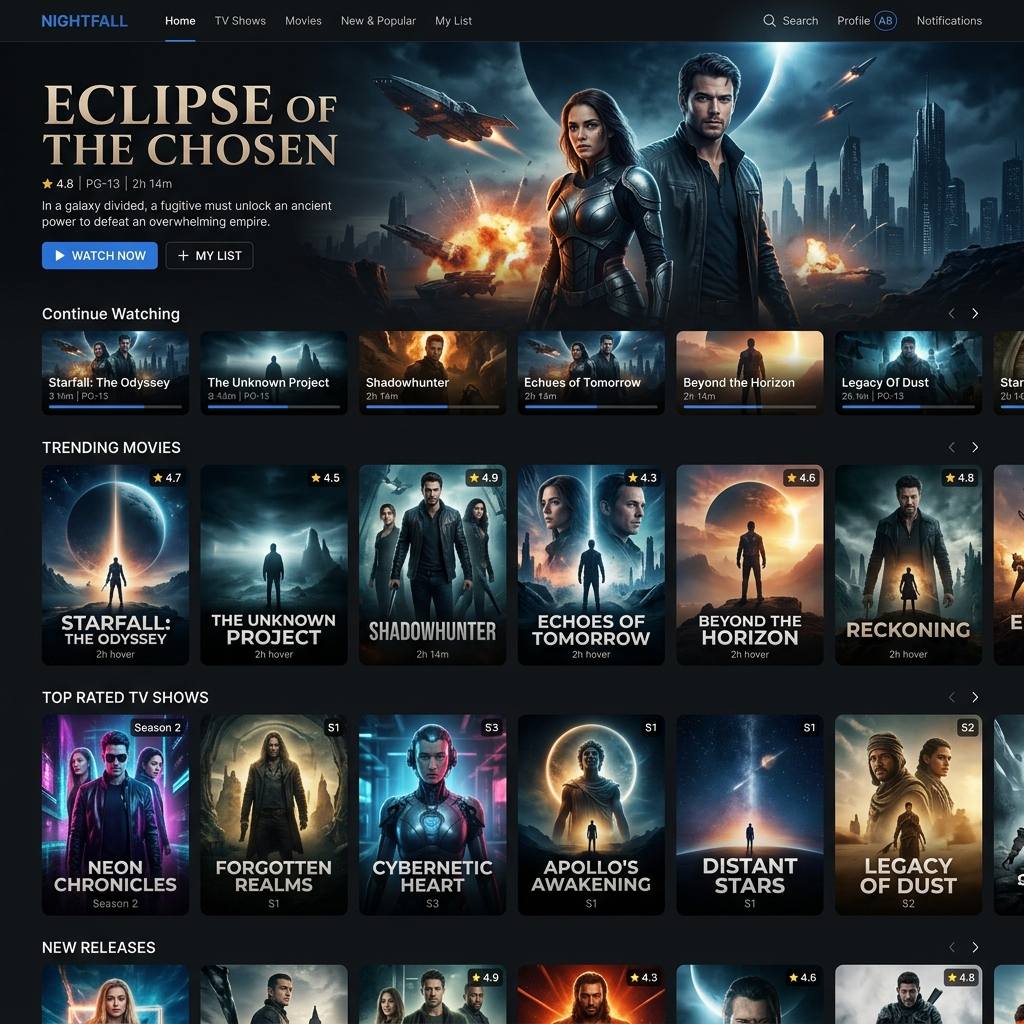
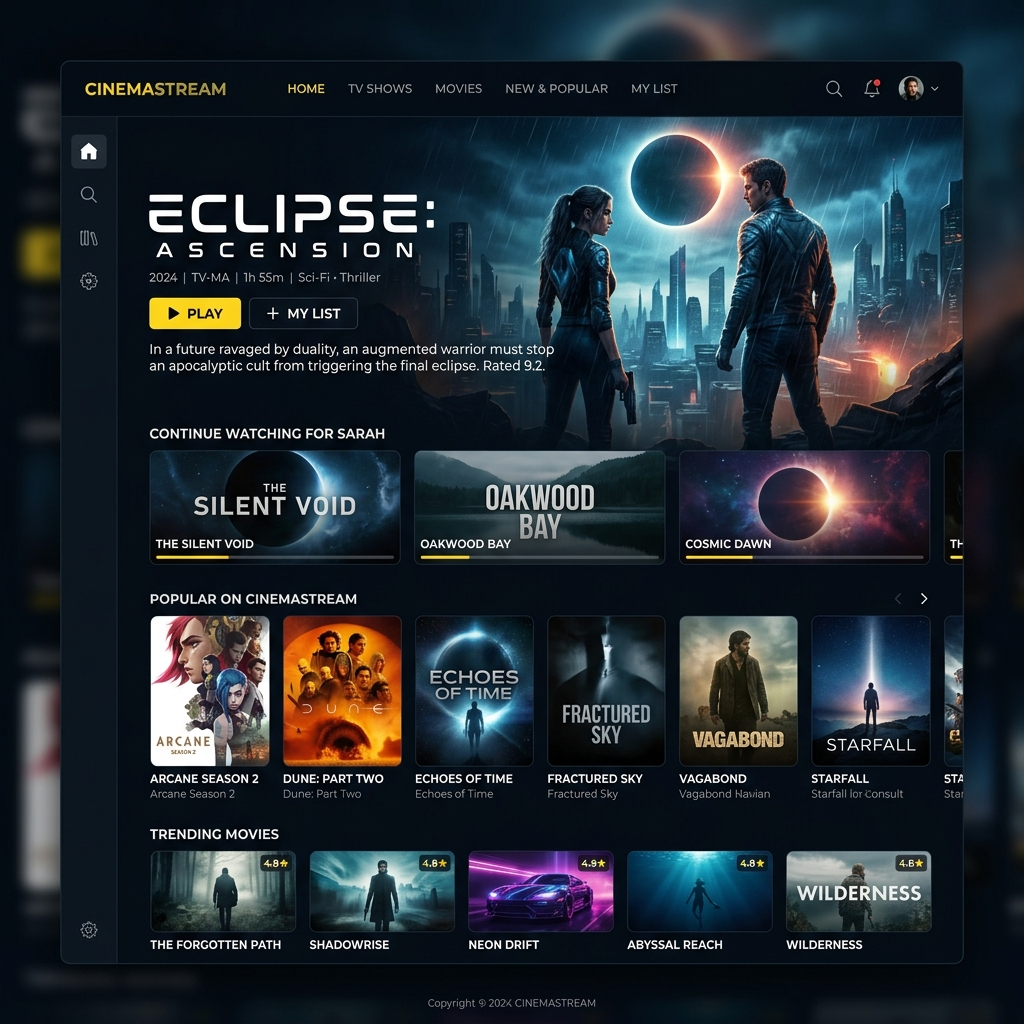
Update portfolio with Dhyan's details, resume, and loading spinner

diff --git a/src/data/portfolioData.js b/src/data/portfolioData.js
@@ -1,82 +1,88 @@
-import drivezyImg from '../assets/projects/drivezy.png';
-import luminovaImg from '../assets/projects/luminova.png';
+import workoraImg from '../assets/projects/workora.png';
+import rexpexImg from '../assets/projects/rexpex.png';
 import adminImg from '../assets/projects/admin.png';
 import olxImg from '../assets/projects/olx.png';
 import netflixImg from '../assets/projects/netflix.png';
 
 export const portfolioData = {
-  name: "Anuchandana S",
-  title: "Frontend Developer — MERN Stack Developer",
+  name: "Dhyan P",
+  title: "MERN Stack Developer",
   location: "Kochi, Kerala",
-  email: "[email redacted]",
-  phone: "[phone redacted]",
-  linkedin: "https://www.linkedin.com/in/anuchandana-sunil-57012b319/",
-  github: "https://github.com/anuchandana963",
+  email: "[email redacted]",
+  phone: "[phone redacted]",
+  linkedin: "https://www.linkedin.com/in/dhyan-p-a98492346/",
+  github: "https://github.com/dhyyan",
   
-  profileSummary: "Frontend-focused MERN stack developer with hands-on experience building scalable full-stack web applications using React.js, Node.js, and MongoDB. Skilled in RESTful API integration, authentication (JWT, Firebase), and responsive user interface development. Strong foundation in data structures and problem-solving with 100+ LeetCode problems solved.",
+  profileSummary: "Self-taught MERN Stack Developer with hands-on experience building dynamic, scalable web applications using React.js, Node.js, and MongoDB. Proficient in building RESTful APIs, integrating third party services such as Razorpay and Firebase Auth, and deploying full stack apps on Vercel and AWS. Follows Clean Architecture principles to ensure scalable, testable, and maintainable codebases. Strong problem solving skills are demonstrated by solving 100+ LeetCode problems, with a passion for writing clean, optimized, and maintainable code.",
   
   technicalSkills: {
     languages: ["JavaScript", "TypeScript", "C"],
-    frontend: ["React.js", "Redux", "Tailwind CSS", "Bootstrap", "Vanilla CSS"],
-    backend: ["Node.js", "Express.js", "RESTful APIs"],
-    databases: ["MongoDB", "Firebase"],
+    frontend: ["HTML", "CSS", "React.js", "Redux", "Tailwind CSS", "Bootstrap"],
+    backend: ["Node.js", "Express.js", "REST APIs", "JWT", "OAuth 2.0", "Razorpay integration"],
+    databases: ["MongoDB", "PostgreSQL", "Firebase", "Firestore"],
     tools: ["Git", "GitHub", "Postman", "Figma", "npm"],
-    concepts: ["Authentication", "Authorization", "JWT", "MVC", "Clean Architecture", "OOP"],
+    concepts: ["MVC", "Repository Architecture", "Clean Architecture", "OOP", "Authentication", "Authorization", "CRUD", "Responsive Design"],
   },
   
   projects: [
     {
-      title: "Drivezy - Vehicle Rental Platform",
-      github: "https://github.com/anuchandana963/DRIVEZY",
-      image: drivezyImg,
-      description: "Built a full-stack vehicle rental platform with JWT-based authentication and role-based access control. Implemented MongoDB geospatial indexing for location-based search and distance filtering.",
+      title: "Workora – Freelance Marketplace Platform",
+      github: "https://github.com/dhyyan/WORKORA",
+      image: workoraImg,
+      description: "A full stack freelance marketplace platform where clients can post projects and hire freelancers based on skills, budget, and ratings. Freelancers can apply for jobs, manage bids, track progress, and receive payments securely through an integrated wallet system.",
       bulletPoints: [
-        "Built a full-stack vehicle rental platform with JWT-based authentication and role-based access control.",
-        "Implemented MongoDB geospatial indexing for location-based search and distance filtering.",
-        "Developed an admin dashboard for managing users and approvals.",
-        "Designed real-time chat and notification features for user interaction."
+        "Role-Based Authentication: Secure login and access control for Admin, Client, and Freelancer roles with JWT and OTP verification.",
+        "Job Posting & Bidding System: Clients can post jobs with deadlines and budgets; freelancers can submit proposals and track their status.",
+        "Wallet-Based Payment Flow: Clients and freelancers have individual wallets. Clients can add funds, and upon project completion, release payments directly to freelancers.",
+        "Real-Time Chat Notifications: Instant communication and updates between clients and freelancers using WebSocket-based chat.",
+        "Admin Dashboard: Manage users, subscriptions, payments, and monitor project activities with analytics and reports."
       ]
     },
     {
-      title: "Luminova - Watch E-commerce Platform",
-      github: "https://github.com/anuchandana963/Luminovaa",
-      image: luminovaImg,
-      description: "Developed a full-stack e-commerce application with advanced filtering by category, price, and brand. Improved performance using pagination and optimized database queries.",
+      title: "RexPex – Smart Eyewear E-commerce Platform",
+      github: "https://github.com/dhyyan/Rex-Pex",
+      image: rexpexImg,
+      description: "A full stack web application that helps users find and purchase eyeglasses based on style, budget, and needs. Features an advanced filtering system and a unique \"Smart Repair System\" that notifies the nearest service partner for free repairs.",
       bulletPoints: [
-        "Developed a full-stack e-commerce application with advanced filtering by category, price, and brand.",
-        "Improved performance using pagination and optimized database queries.",
-        "Implemented dynamic product recommendation features."
+        "Advanced Filtering System: Multi criteria search by category, brand, price, and stock status using optimized backend queries.",
+        "Smart Offers Engine: Personalized product suggestions based on user behavior and filters like category, brand, price, and stock status.",
+        "Performance Optimization: Integrated pagination, indexed MongoDB queries, and fast search for a smooth user experience."
       ]
     },
     {
-      title: "User Management System & Admin Dashboard",
-      github: "https://github.com/anuchandana963/USER-MANAGEMENT-Redux",
+      title: "User Management System & Admin Dashboard App",
+      github: "https://github.com/dhyyan/USER-MANAGEMENT-Redux",
       image: adminImg,
-      description: "Built a React and TypeScript admin dashboard with Redux for state management. Implemented CRUD operations using modular and reusable components.",
+      description: "A modern admin dashboard for managing users, built with React and TypeScript. Features include user listing, editing, deletion, and profile control, all within an interactive UI.",
       bulletPoints: [
-        "Built a React and TypeScript admin dashboard with Redux for state management.",
-        "Implemented CRUD operations using modular and reusable components.",
-        "Designed a responsive UI using Tailwind CSS."
+        "Developed the frontend using React with TypeScript for strong type safety and maintainability.",
+        "Followed Clean Architecture principles to organize code into clear, scalable layers.",
+        "Used Redux for global state management and asynchronous operations.",
+        "Designed a responsive UI using Tailwind CSS with smooth animations powered by Framer Motion."
       ]
     },
     {
-      title: "OLX-like Buy & Sell Platform",
-      github: "#",
+      title: "OLX Clone — Buy & Sell Web App",
+      github: "https://github.com/dhyyan/OLX-Clone-React",
       image: olxImg,
-      description: "Developed a product listing platform using React and Firebase. Integrated Firebase Authentication and image upload functionality.",
+      description: "A responsive OLX like platform built with React and Firebase, allowing users to post, browse, and manage product listings.",
       bulletPoints: [
-        "Developed a product listing platform using React and Firebase.",
-        "Integrated Firebase Authentication and image upload functionality.",
-        "Implemented search, filtering, and lazy loading for performance."
+        "Integrated Firebase Auth with Google login and managed sessions via the React Context API.",
+        "Enabled image uploads and storage using Firebase Storage.",
+        "Designed UI with Tailwind CSS and handled navigation using React Router.",
+        "Implemented search, filtering, and lazy loading for performance optimization."
       ]
     },
     {
-      title: "Netflix Clone - Streaming Web App",
-      github: "https://github.com/anuchandana963/Netflix-Clone-React",
+      title: "Netflix Clone Streaming Web App",
+      github: "https://github.com/dhyyan/Netflix-Clone-React",
       image: netflixImg,
-      description: "Built a responsive streaming platform using React and Firebase with authentication and protected routes.",
+      description: "A responsive Netflix-like platform built with React and Firebase, offering user authentication, dynamic content browsing, and optimized component rendering.",
       bulletPoints: [
-        "Built a responsive streaming platform using React and Firebase with authentication and protected routes."
+        "Integrated Firebase Authentication with secure session management.",
+        "Managed global state using React Context API for cleaner data flow.",
+        "Improved performance using React.memo and component-level optimization.",
+        "Designed a responsive and dynamic user interface using Tailwind CSS."
       ]
     }
   ],
@@ -94,15 +100,14 @@ export const portfolioData = {
   ],
   
   certifications: [
-    "Completed MERN Stack Development Bootcamp at Brototype.",
     "Solved 100+ problems on LeetCode focusing on data structures and algorithms."
   ],
   
   education: [
     {
-      institution: "Brototype Bootcamp",
+      institution: "Brototype (BootCamp)",
       degree: "MERN Stack Development",
-      duration: "April 2026"
+      duration: "Present"
     },
     {
       institution: "GHSS Palayad",

diff --git a/src/components/Loader.css b/src/components/Loader.css
@@ -1,0 +1,27 @@
+.loader-wrapper {
+  position: fixed;
+  top: 0;
+  left: 0;
+  width: 100%;
+  height: 100%;
+  background-color: #0a0a0a;
+  display: flex;
+  justify-content: center;
+  align-items: center;
+  z-index: 9999;
+}
+
+.spinner {
+  width: 50px;
+  height: 50px;
+  border: 4px solid rgba(0, 255, 255, 0.1);
+  border-left-color: #00ffff;
+  border-radius: 50%;
+  animation: spin 1s linear infinite;
+}
+
+@keyframes spin {
+  to {
+    transform: rotate(360deg);
+  }
+}

diff --git a/src/App.jsx b/src/App.jsx
@@ -1,4 +1,4 @@
-import React from 'react';
+import React, { useState, useEffect } from 'react';
 import Navbar from './components/Navbar';
 import Hero from './components/Hero';
 import About from './components/About';
@@ -9,9 +9,25 @@ import Education from './components/Education';
 import Services from './components/Services';
 import Contact from './components/Contact';
 import Footer from './components/Footer';
+import Loader from './components/Loader';
 import './App.css';
 
 function App() {
+  const [loading, setLoading] = useState(true);
+
+  useEffect(() => {
+    // Simulate initial loading time
+    const timer = setTimeout(() => {
+      setLoading(false);
+    }, 1500);
+
+    return () => clearTimeout(timer);
+  }, []);
+
+  if (loading) {
+    return <Loader />;
+  }
+
   return (
     <div className="app-container">
       <Navbar />

diff --git a/src/components/Loader.jsx b/src/components/Loader.jsx
@@ -1,0 +1,12 @@
+import React from 'react';
+import './Loader.css';
+
+const Loader = () => {
+  return (
+    <div className="loader-wrapper">
+      <div className="spinner"></div>
+    </div>
+  );
+};
+
+export default Loader;

diff --git a/src/components/Hero.jsx b/src/components/Hero.jsx
@@ -1,7 +1,7 @@
 import React from 'react';
 import { Download, CodeXml } from 'lucide-react';
 import { FaGithub, FaLinkedin, FaEnvelope } from 'react-icons/fa';
-import heroImg from '../assets/anu_profile.jpg';
+import heroImg from '../assets/dhyan_profile.jpeg';
 import { portfolioData } from '../data/portfolioData';
 import './Hero.css';
 
@@ -24,11 +24,11 @@ const Hero = () => {
           </h1>
           
           <p className="hero-description">
-            A <strong>Frontend Developer & MERN Stack Dev</strong> focused on high-performance digital experiences— where minimalism meets engineering excellence.
+            A <strong>{portfolioData.title}</strong> focused on high-performance digital experiences— where minimalism meets engineering excellence.
           </p>
           
           <div className="hero-actions">
-            <a href="/resume.pdf" download="Anuchandana_Resume.pdf" className="btn btn-primary dwn-btn">
+            <a href="/resume.pdf" download="Dhyan_Resume.pdf" className="btn btn-primary dwn-btn">
               DOWNLOAD CV <Download size={16} />
             </a>
             

diff --git a/index.html b/index.html
@@ -4,8 +4,8 @@
     <meta charset="UTF-8" />
     <link rel="icon" type="image/svg+xml" href="/vite.svg" />
     <meta name="viewport" content="width=device-width, initial-scale=1.0" />
-    <meta name="description" content="Anuchandana S - MERN Stack Developer Portfolio" />
-    <title>Anuchandana S | Portfolio</title>
+    <meta name="description" content="Dhyan P - MERN Stack Developer Portfolio" />
+    <title>Dhyan P | Portfolio</title>
   </head>
   <body>
     <div id="root"></div>

diff --git a/src/components/Navbar.jsx b/src/components/Navbar.jsx
@@ -26,8 +26,8 @@ const Navbar = () => {
     <header className={`navbar ${scrolled ? 'nav-scrolled' : ''}`}>
       <div className="nav-container pill-nav">
         <a href="#home" className="nav-logo">
-          <div className="logo-initial">A</div>
-          <span>ANUCHANDANA</span>
+          <div className="logo-initial">D</div>
+          <span>DHYAN</span>
         </a>
 
         {/* Desktop Navigation */}

diff --git a/src/components/Footer.jsx b/src/components/Footer.jsx
@@ -12,7 +12,7 @@ const Footer = () => {
       <div className="container">
         <div className="footer-content">
           <div className="footer-logo">
-            <h2>Anuchandana<span>.</span></h2>
+            <h2>Dhyan<span>.</span></h2>
             <p>Building scalable and robust web experiences.</p>
           </div>
           